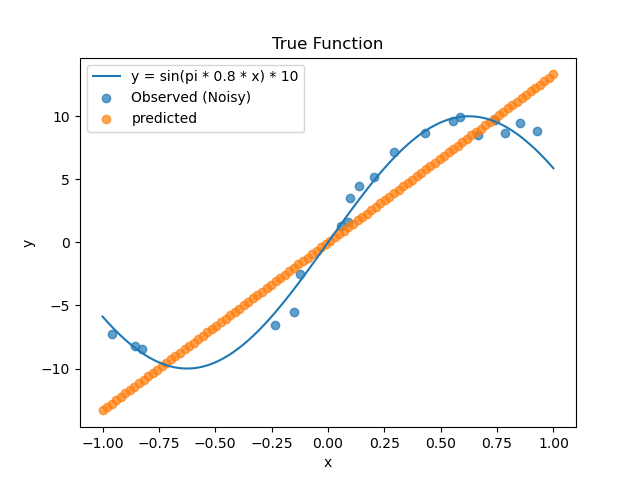
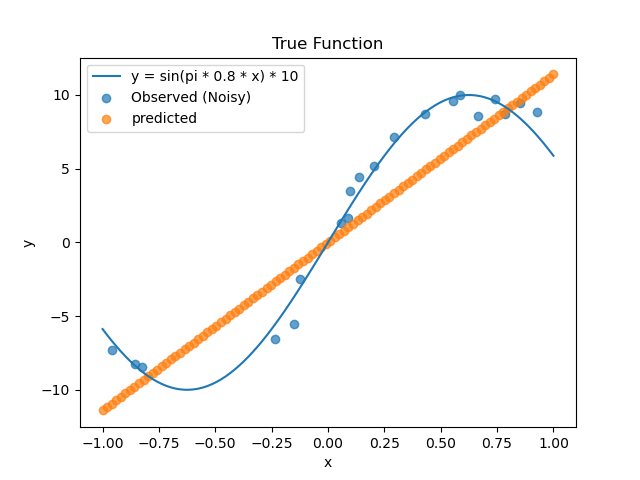
1.13

diff --git a/ex4/learn1.py b/ex4/learn1.py
@@ -26,19 +26,24 @@ import regression
 model = regression.LinearRegression()
 model.fit(x_train, y_train)
 
-#print(model.theta)
+import pickle
+
+with open("/Users/uta/datamining/ex4/model.pkl", "wb") as f:
+    pickle.dump(model, f)
+
+
 
 # 予測
 y_pred = model.predict(x_test)
 
-#print(y_pred)
+
 
 x_ = np.linspace(-1, 1, 100)
 y_ = true_function(x_)
 #真の関数を表示するだけのx_,y_
 x_plot = np.linspace(-1, 1, 100).reshape(-1, 1)
 y_pred = model.predict(x_plot)
-print(y_pred)
+
 
 #MEAテスト
 MAE_score = model.MAE_score(x_plot,y_)
